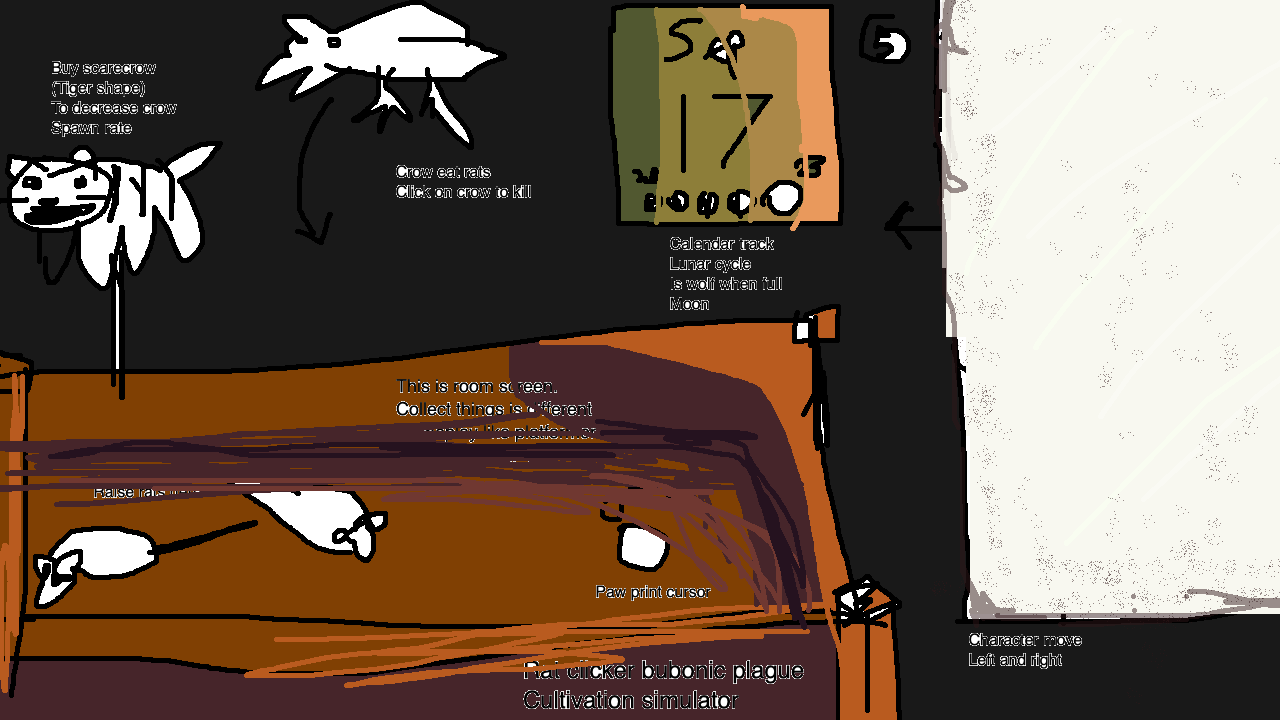
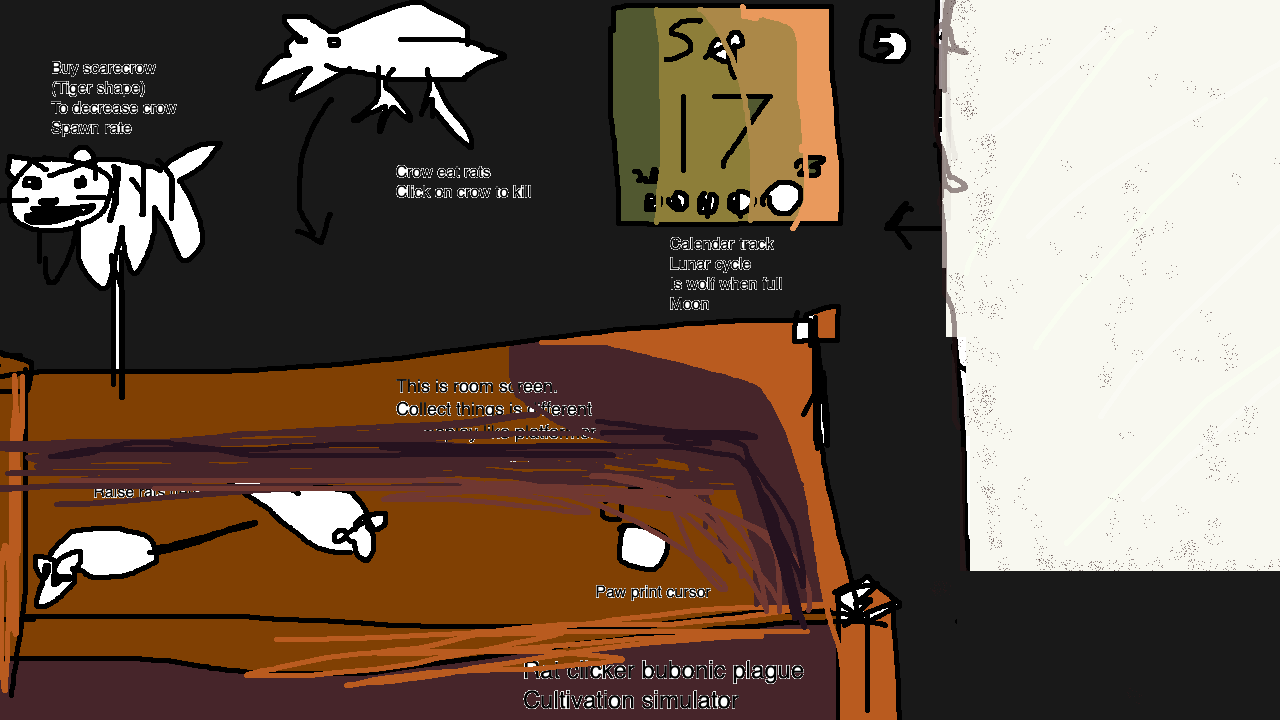
add ethan cage

Changed region(s): [[0.75, 0.7944, 1.0, 0.9472]]

diff --git a/breeder_game.py b/breeder_game.py
@@ -28,6 +28,13 @@ class BreederGame:
         #MAIN-----------------------------
         self.movement = [False, False]
         self.wall = utils.load_image("breeder/wall.png")
+# (0,782),(330,600)
+        self.cage1 = utils.load_image("breeder/cage-1.png")
+        self.cage2 = utils.load_image("breeder/cage-2.png")
+        self.cage3 = utils.load_image("breeder/cage-3.png")
+        self.cage1 = pygame.transform.scale(self.cage1, (1000,400))
+        self.cage2 = pygame.transform.scale(self.cage2, (1000,400))
+        self.cage3 = pygame.transform.scale(self.cage3, (1000,400))
 
         self.bg = utils.load_image("breeder/02-breeding-room.png")
 
@@ -99,9 +106,12 @@ class BreederGame:
         self.player.render()
         self.screen.blit(self.bg, (0, 0))
 
+        self.screen.blit(self.cage1, (-50,350))
         for rat in range(len(self.rats)):
             self.rats[rat].update()
             self.rats[rat].render()
+        self.screen.blit(self.cage2, (-50,350))
+        self.screen.blit(self.cage3, (-50,350))
 
         self.crow.update()
         self.crow.render()

diff --git a/breeder/rats.py b/breeder/rats.py
@@ -2,15 +2,15 @@ import utils
 from random import uniform, getrandbits, choice, randrange
 
 class Rat:
-    def __init__(self, game, pos=[randrange(0,782),randrange(330,600)]):
+    def __init__(self, game, pos=[randrange(10,770),randrange(550,650)]):
 
-        self.rat_cage = ((0,782),(330,600))
+        self.rat_cage = ((10,770),(550,650))
 
         self.DX_val = 5
         self.DY_val = 5
         self.game = game
         self.pos = pos
-        self.pos=[randrange(0,782),randrange(330,600)]
+        self.pos=[randrange(10,770),randrange(550,650)]
         self.image = utils.load_image("breeder/mouse.png")
         self.timer = 0
         # print(self.pos)

diff --git a/utils.py b/utils.py
@@ -14,3 +14,13 @@ def load_images(path):
     for img_name in sorted(os.listdir(BASE_IMG_PATH + path)):
         images.append(load_image(path + '/' + img_name))
     return images
+
+class Spritesheet:
+    def __init__(self, file):
+        self.sheet = pygame.image.load(file).convert_alpha()
+
+    def get_sprite(self, x, y, width, height):
+        sprite = pygame.Surface([width,height])
+        sprite.blit(self.sheet, (0,0), (x, y, width, height))
+        # sprite.set_colorkey(BLACK)
+        return sprite

diff --git a/breeder/calculate_rats.py b/breeder/calculate_rats.py
@@ -7,8 +7,8 @@ class BreederCalculations:
     def __init__(self, game):
         self.game = game
         self.timer = 0
-        self.rat_count = 2
-        self.upper_cap = 500
+        self.rat_count = 100
+        self.upper_cap = 100
         self.lower_cap = 0
         self.next_increase = 0
 
